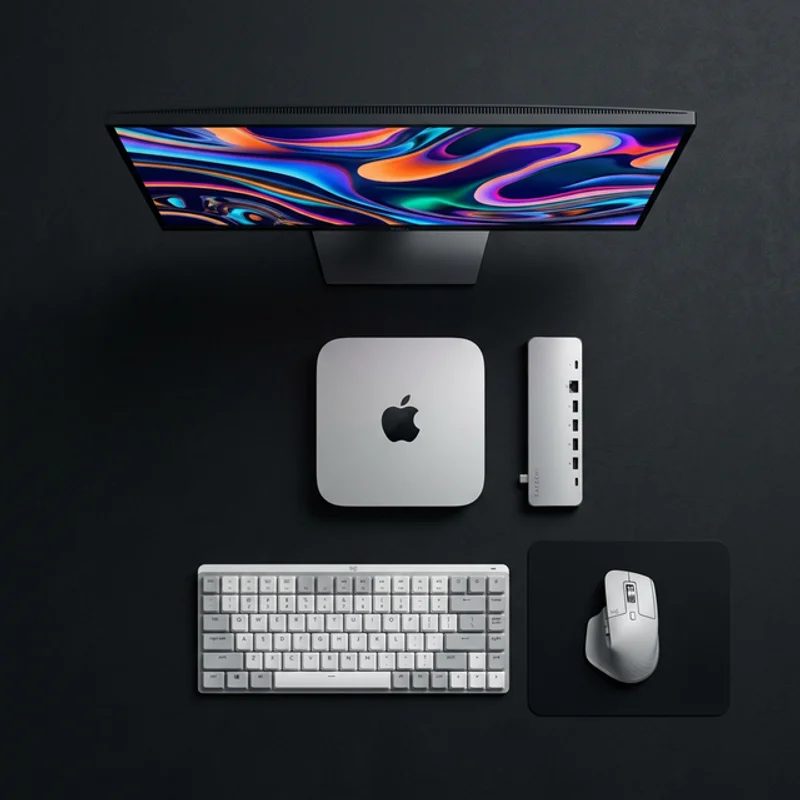
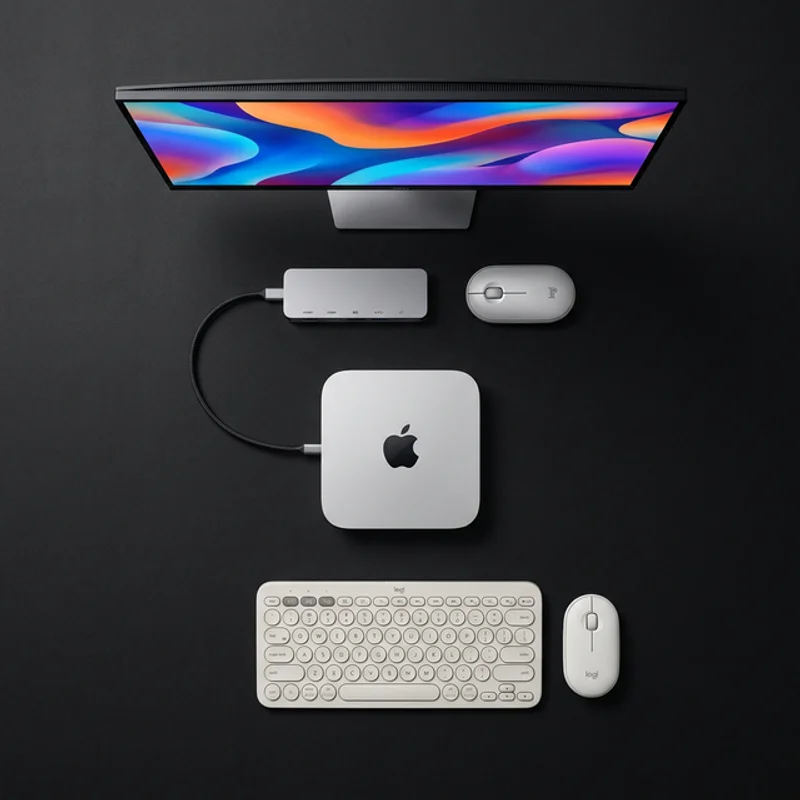
Bundle detail cards: image + name + description for each static item
- Replaced text chips with rich detail cards in 'What's in Your Bundle'
- Each static item shows: product image, name, one-line description
- '+ Monitor & Keyboard' configurable placeholder with dashed blue border
- Updated bundle overview images to v2 (correct Logitech, USB-C hub, Furgle chair)
- Data structure: bundleDetailItems array with per-item images, descriptions
- Created images/static/ directory for user-provided product images

diff --git a/js/app.js b/js/app.js
@@ -60,10 +60,21 @@ const monitorImages = {
     ]
 };
 
-// ── BUNDLE CONTENTS (ALL items per bundle — static + configurable) ──
+// ── BUNDLE DETAIL ITEMS (static items with images + descriptions) ──
+const bundleDetailItems = [
+    { name: 'Mac Mini M4', desc: '10-core CPU, 10-core GPU, 16GB unified memory, 256GB SSD', img: 'images/static/mac-mini-m4.webp', bundles: ['basic', 'full'] },
+    { name: 'USB-C Hub (10-in-1)', desc: 'HDMI, USB-A ×3, USB-C, SD/microSD, Ethernet, 100W passthrough', img: 'images/static/usb-c-hub.webp', bundles: ['basic', 'full'] },
+    { name: 'Wireless Mouse', desc: 'Ergonomic design, silent click, long battery life', img: 'images/static/wireless-mouse.webp', bundles: ['basic', 'full'] },
+    { name: 'Workstation Table', desc: 'Spacious minimalist desk with cable management', img: 'images/static/workstation-table.webp', bundles: ['full'] },
+    { name: 'Ergonomic Chair', desc: 'Furgle mesh-back chair with lumbar support and headrest', img: 'images/static/ergonomic-chair.webp', bundles: ['full'] },
+    { name: 'Keyboard Mat', desc: 'Premium felt desk mat, full-width coverage', img: 'images/static/keyboard-mat.webp', bundles: ['full'] },
+    { name: 'Side Light', desc: 'Modern LED desk lamp with adjustable brightness', img: 'images/static/side-light.webp', bundles: ['full'] }
+];
+
+// Quick list for summary (derived from detail items)
 const bundleContents = {
-    basic: ['Mac Mini M4', 'Monitor', 'Keyboard & Mouse', 'USB-C Hub (10-in-1)', 'Wireless Mouse'],
-    full: ['Mac Mini M4', 'Monitor', 'Keyboard & Mouse', 'USB-C Hub (10-in-1)', 'Wireless Mouse', 'Workstation Table', 'Ergonomic Chair', 'Keyboard Mat', 'Side Light']
+    basic: bundleDetailItems.filter(i => i.bundles.includes('basic')).map(i => i.name).concat(['Monitor', 'Keyboard & Mouse']),
+    full: bundleDetailItems.filter(i => i.bundles.includes('full')).map(i => i.name).concat(['Monitor', 'Keyboard & Mouse'])
 };
 
 // ── LOAD PRODUCTS FROM DB ──
@@ -357,15 +368,30 @@ function selectBundle(val) {
     const card = document.getElementById('card-' + val);
     if (card) card.classList.add('selected');
 
-    // Show bundle contents chips
+    // Render bundle detail cards (static items with images + descriptions)
     const contentsEl = document.getElementById('bundle-contents');
     const grid = document.getElementById('bundle-contents-grid');
     if (contentsEl && grid) {
-        const items = bundleContents[val] || [];
+        const items = bundleDetailItems.filter(i => i.bundles.includes(val));
         if (items.length > 0) {
-            grid.innerHTML = items.map(item =>
-                `<div class="bundle-item-chip"><span class="chip-check">✓</span> ${item}</div>`
-            ).join('');
+            grid.innerHTML = items.map(item => `
+                <div class="bundle-detail-card">
+                    <div class="bundle-detail-img">
+                        <img src="${item.img}" alt="${item.name}" loading="lazy">
+                    </div>
+                    <div class="bundle-detail-info">
+                        <div class="bundle-detail-name">${item.name}</div>
+                        <div class="bundle-detail-desc">${item.desc}</div>
+                    </div>
+                </div>
+            `).join('') + `
+                <div class="bundle-detail-card bundle-detail-configurable">
+                    <div class="bundle-detail-info">
+                        <div class="bundle-detail-name">+ Monitor & Keyboard</div>
+                        <div class="bundle-detail-desc">Choose your display and keyboard combo below</div>
+                    </div>
+                </div>
+            `;
             contentsEl.style.display = 'block';
         } else {
             contentsEl.style.display = 'none';

diff --git a/css/styles.css b/css/styles.css
@@ -916,30 +916,85 @@
 
         .bundle-contents-grid {
             display: flex;
-            flex-wrap: wrap;
-            gap: 10px;
+            flex-direction: column;
+            gap: 12px;
         }
 
-        .bundle-item-chip {
+        /* Bundle detail cards */
+        .bundle-detail-card {
             display: flex;
             align-items: center;
-            gap: 6px;
-            background: rgba(255, 255, 255, 0.04);
+            gap: 14px;
+            padding: 12px 14px;
+            background: rgba(255, 255, 255, 0.03);
             border: 1px solid var(--border);
-            border-radius: 50px;
-            padding: 6px 14px;
-            font-size: 0.78rem;
+            border-radius: 12px;
+            transition: background 0.2s;
+        }
+
+        .bundle-detail-card:hover {
+            background: rgba(255, 255, 255, 0.06);
+        }
+
+        [data-theme="light"] .bundle-detail-card {
+            background: #f8f8fa;
+        }
+
+        [data-theme="light"] .bundle-detail-card:hover {
+            background: #f0f0f2;
+        }
+
+        .bundle-detail-img {
+            width: 56px;
+            height: 56px;
+            flex-shrink: 0;
+            border-radius: 10px;
+            overflow: hidden;
+            background: rgba(255, 255, 255, 0.05);
+            display: flex;
+            align-items: center;
+            justify-content: center;
+        }
+
+        [data-theme="light"] .bundle-detail-img {
+            background: #eee;
+        }
+
+        .bundle-detail-img img {
+            width: 100%;
+            height: 100%;
+            object-fit: cover;
+        }
+
+        .bundle-detail-info {
+            flex: 1;
+            min-width: 0;
+        }
+
+        .bundle-detail-name {
+            font-size: 0.88rem;
+            font-weight: 600;
             color: var(--text);
+            margin-bottom: 2px;
         }
 
-        [data-theme="light"] .bundle-item-chip {
-            background: #f5f5f7;
+        .bundle-detail-desc {
+            font-size: 0.75rem;
+            color: var(--muted);
+            line-height: 1.4;
         }
 
-        .bundle-item-chip .chip-check {
-            color: #30d158;
-            font-size: 0.7rem;
+        /* Configurable item placeholder */
+        .bundle-detail-configurable {
+            border-style: dashed;
+            border-color: rgba(0, 113, 227, 0.3);
+            background: rgba(0, 113, 227, 0.04);
         }
+
+        .bundle-detail-configurable .bundle-detail-name {
+            color: #0071e3;
+        }
+
 
         /* ── COLOR SELECTOR (Apple-style) ── */
         .color-selector {

diff --git a/index.html b/index.html
@@ -166,9 +166,9 @@
                                 </div>
                             </div>
                         </div>
-                        <!-- Bundle contents preview -->
+                        <!-- Bundle detail cards -->
                         <div class="bundle-contents" id="bundle-contents" style="display:none;">
-                            <div class="bundle-contents-label">What's included:</div>
+                            <div class="bundle-contents-label">What's in your bundle:</div>
                             <div class="bundle-contents-grid" id="bundle-contents-grid"></div>
                         </div>
                     </div>
